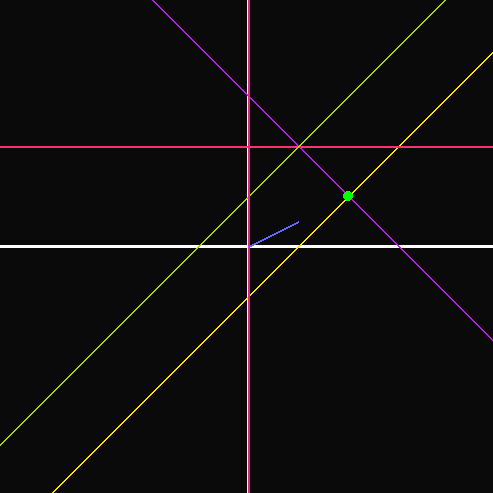
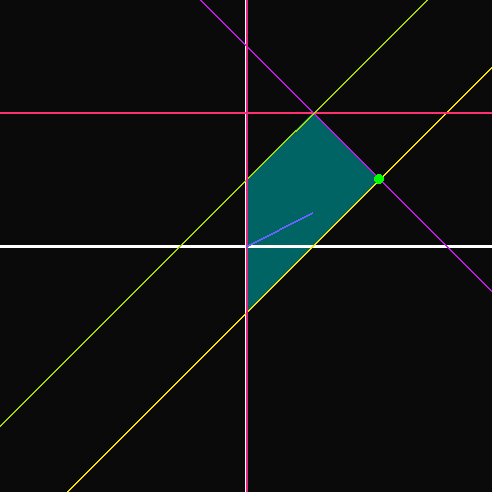
draw poly

diff --git a/simpModule.py b/simpModule.py
@@ -4,6 +4,7 @@ import numpy as np
 import math
 from pygame.locals import *
 
+import itertools
 
 
 
@@ -12,7 +13,7 @@ def simpView(A, B, b, c):
     maxRoot = max(mb / (1 if i == 0 else i) for i in A[b.index(mb)])
     print("doot: "+str(maxRoot))
     winsize = 500
-    scale = 250 / maxRoot
+    scale = 200 / maxRoot
     point_size = 5
     constraint_thickness = 2
     axis_thickness = 3
@@ -81,7 +82,37 @@ def simpView(A, B, b, c):
         pygame.draw.line(screen, (255, 255, 255),p[0],p[1], axis_thickness)
         pygame.draw.line(screen, (255, 255, 255),p[2],p[3], axis_thickness)
 
+    def drawPolygon(A, b, scale):
+        intersections = []
+        filteredsections = []
+        for v1 in range(len(A)):
+            for v2 in range(len(A)):
+                if v1 != v2:
+                    
+                    a1 = A[v1][0]
+                    a2 = A[v2][0]
+                    b1 = A[v1][1]
+                    b2 = A[v2][1]
+                    c1 = -b[v1]
+                    c2 = -b[v2]
+                    
+                    if a1 * b2 - a2 * b1 != 0 and a1*b2 - a2*b1 != 0:
+                        inters = ((b1 * c2 - b2 * c1)/(a1 * b2 - a2 * b1), (c1*a2 - c2*a1)/(a1*b2 - a2*b1))
+                        
+                        if inters not in intersections:
+                            intersections.append(inters)
+        
+        for i in intersections:
+            if all(A[v][0] * i[0] + A[v][1] *i[1] <= b[v] for v in range(len(A))):
+                filteredsections.append((i[0] * scale + winsize/2, i[1] * -scale + winsize/2))
 
+
+        # So this is a terrible approach, a decent one could be visiting the vertices by moving along the edges.
+        for i in itertools.permutations(filteredsections):
+            pygame.draw.polygon(screen, (0, 100, 100), i, width = 0)
+        
+    
+    
     ########################################### SIMPLEX ITERATION ###########################################
 
     def simp_primale(A, B, b, c, first):
@@ -198,7 +229,7 @@ def simpView(A, B, b, c):
 
         # Draw a solid blue circle in the center
         
-    
+        drawPolygon(A, b, scale)
         drawAxis()
         drawConstraints(A, b, scale)
         drawFOb(c, scale)

diff --git a/simp_user.py b/simp_user.py
@@ -4,13 +4,8 @@ from simpModule import simpView
 # Constraints:   Ax <= b
 
 
-A = [[1,-1], 
-     [0, 1], 
-     [1, 1], 
-     [-1,1], 
-     [-1,0]]
-
-B = [4,5]
+A = [[1,-1], [0,1], [1,1], [-1,1], [-1,0]]
+B = [4,5];
 b = [1, 2, 3, 1, 0]
 c = [2,1]
 
